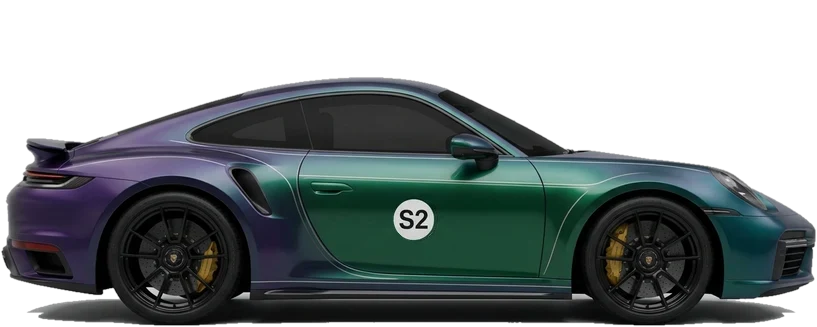
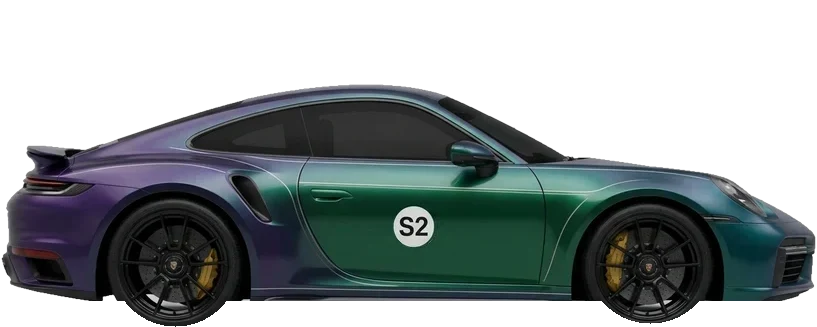
Season 2 pass car is now Porsche 911 Turbo S «Aurora» (owner); GT-R kept valid as a former option. Floor/shadow cut from under both new cars, wheels on the canvas bottom
Claude-Session: https://claude.ai/code/session_01YH73bmVKmcSwFykVt1gPrj

Changed region(s): [[0.0, 0.2141, 1.0, 1.0]]

diff --git a/public/shared.js b/public/shared.js
@@ -495,12 +495,12 @@ for (const [name, hp, kg, body, country, year, price, ev] of SECRETS) {
 // another option to the top BEFORE the season starts (the model id follows the name, so a car already given stays valid
 // only if its old option is kept in OLD_SEASON_CARS).
 export const SEASON2_CAR_OPTIONS = [
+  { season: 2, name: 'Porsche 911 Turbo S «Aurora»', hp: 650, kg: 1640, body: 'super', country: 'DE', year: 2021, price: ECON.seasonCar,
+    img: 'porsche-911-turbo-s-aurora' }, // 03.11: its own «Aurora» livery photo (Gemini); the pass car since 03.11 (owner)
   { season: 2, name: 'Nissan GT-R R35 «Midnight Purple»', hp: 600, kg: 1720, body: 'coupe', country: 'JP', year: 2017, price: ECON.seasonCar,
     img: 'nissan-gt-r-r35-mp' }, // 03.11: its own Midnight Purple III photo (the hue-rotate filter looked plastic)
   { season: 2, name: 'Toyota Supra A80 «Neon Tokyo»', hp: 520, kg: 1510, body: 'coupe', country: 'JP', year: 1997, price: ECON.seasonCar,
     img: 'toyota-supra-a80', filter: 'sepia(1) saturate(5) hue-rotate(255deg) brightness(.62)' },
-  { season: 2, name: 'Porsche 911 Turbo S «Aurora»', hp: 650, kg: 1640, body: 'super', country: 'DE', year: 2021, price: ECON.seasonCar,
-    img: 'porsche-911-turbo-s-aurora' }, // 03.11: its own «Aurora» livery photo (Gemini)
 ];
 export const SEASON_CARS = [
   { season: 1, name: 'BMW X5 M E70 «Monte Carlo Blue»', hp: 555, kg: 2380, body: 'suv', country: 'DE', year: 2010, price: ECON.seasonCar },
@@ -508,6 +508,7 @@ export const SEASON_CARS = [
 ];
 // Former season prizes: no longer given, kept as models so a car already in a garage stays valid.
 const OLD_SEASON_CARS = [
+  SEASON2_CAR_OPTIONS[1], // GT-R «Midnight Purple»: the first S2 default (test server, 2–3.11) — kept valid
   { season: 1, name: 'Nissan Skyline GT-R R34 «Сезон 1»', hp: 600, kg: 1540, body: 'coupe', country: 'JP', year: 2002, price: ECON.seasonCar,
     img: 'nissan-skyline-gt-r-r34', filter: 'hue-rotate(42deg) saturate(1.3) brightness(.9)' },
 ];

diff --git a/public/race-wheels-data.js b/public/race-wheels-data.js
@@ -112,7 +112,7 @@ export const WW_DATA = {
   'nio-ep9': [868, 347, [[178.1, 280.7, 57.7, 57.8, 27.9, 1], [714.1, 281.4, 57.8, 57.6, 1.1, 1]]],
   'nio-et7': [913, 365, [[183.4, 296.9, 57.4, 57.7, 10.7, 1], [760.1, 296.9, 57.6, 57.8, 23.4, 1]]],
   'nissan-200sx-s13': [917, 367, [[198.8, 302.4, 47.9, 48.5, -0.5, 1], [729.8, 303.0, 47.9, 48.4, 16.6, 1]]],
-  'nissan-gt-r-r35-mp': [817, 327, [[158.0, 254.3, 53.7, 60.4, 10.4, 0], [661.4, 254.4, 53.6, 60.3, -6.6, 0]]],
+  'nissan-gt-r-r35-mp': [817, 327, [[157.9, 266.3, 53.7, 60.4, 9.7, 0], [661.4, 266.3, 53.6, 60.4, -7.3, 0]]],
   'nissan-gt-r-r35': [817, 327, [[150.0, 261.8, 56.1, 55.9, 26.9, 1], [677.2, 259.8, 55.7, 56.2, 8.2, 1]]],
   'nissan-leaf': [849, 340, [[134.4, 275.1, 54.5, 54.8, 1.4, 1], [679.9, 275.5, 54.5, 54.9, 4.1, 1]]],
   'nissan-silvia-s15': [908, 363, [[191.7, 295.5, 52.7, 53.0, 6.8, 1], [738.6, 296.4, 52.9, 53.2, -12.2, 1]]],
@@ -122,7 +122,7 @@ export const WW_DATA = {
   'pagani-huayra': [859, 344, [[130.6, 273.9, 60.4, 61.2, 8.4, 1], [676.3, 278.4, 56.9, 57.9, -8.2, 1]]],
   'pagani-zonda-r': [884, 354, [[174.5, 288.1, 57.0, 55.9, -10.1, 1], [697.6, 286.7, 56.4, 62.0, 4.0, 0]]],
   'peugeot-205-gti': [886, 354, [[129.6, 280.6, 60.3, 60.9, 3.8, 1], [738.2, 280.7, 61.2, 62.0, 6.1, 1]]],
-  'porsche-911-turbo-s-aurora': [817, 327, [[175, 255, 53.3, 53.3, 0.0, 0], [648, 252, 53.3, 53.3, 0.0, 0]]],
+  'porsche-911-turbo-s-aurora': [817, 327, [[175, 262, 53.3, 53.3, 0.0, 0], [650, 259, 53.3, 53.3, 0.0, 0]]],
   'porsche-911-turbo-s': [817, 327, [[178.1, 259.3, 60.0, 60.5, 11.6, 1], [651.4, 262.1, 58.3, 58.5, 11.2, 1]]],
   'porsche-918-spyder': [871, 348, [[146.9, 269.2, 62.3, 71.7, 16.4, 0], [695.4, 277.5, 61.5, 62.7, -5.0, 1]]],
   'porsche-959': [872, 349, [[206.6, 278.5, 56.5, 57.1, 2.5, 1], [707.1, 277.5, 57.3, 57.6, 4.0, 1]]],
